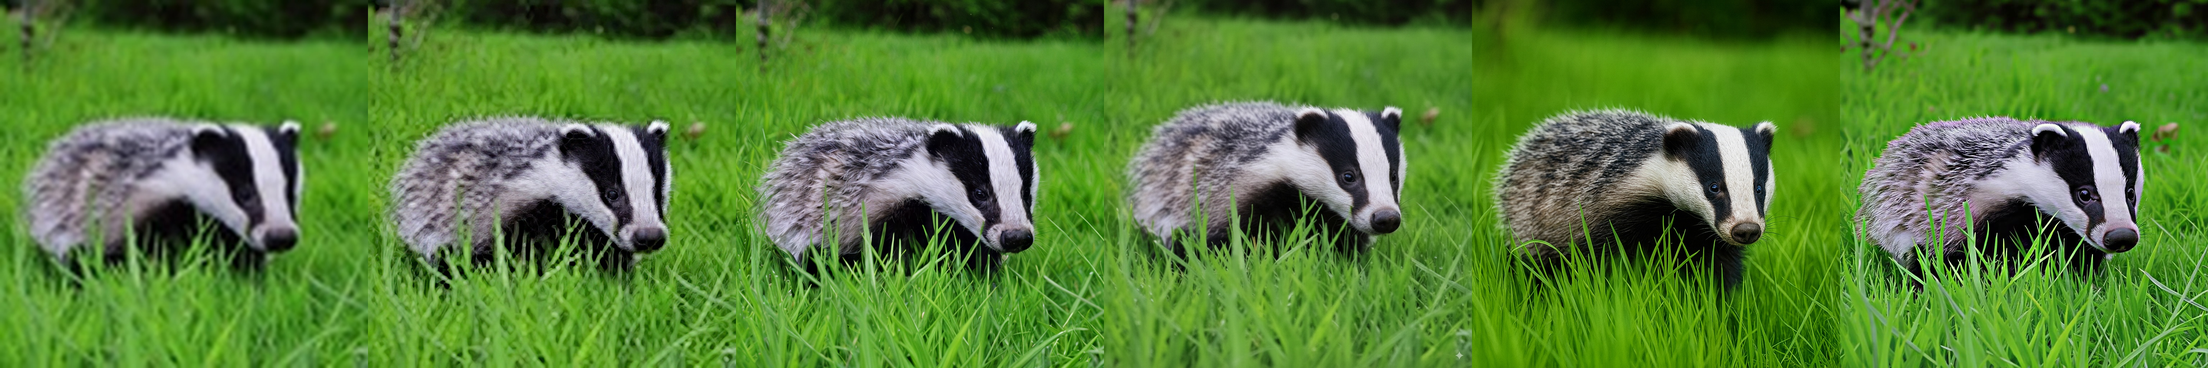
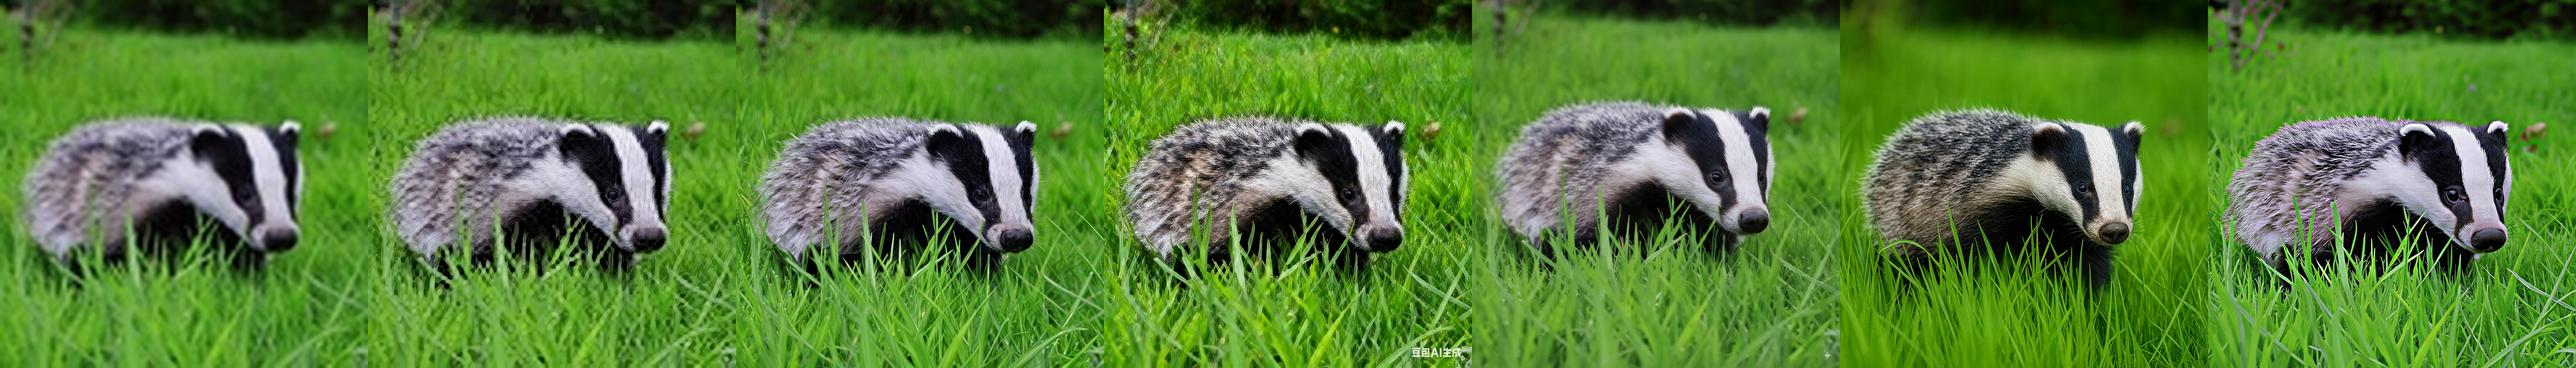
add commercial comparison

diff --git a/LucidFlux/index.html b/LucidFlux/index.html
@@ -1438,7 +1438,7 @@
             <!-- Commercial Model Comparison -->
             <div class="qualitative-results">
                 <h3>Commercial Model Comparison</h3>
-                <p class="comparison-subtitle">Input | HYPIR | Topaz | Gemini-NanoBanana | GPT-4o | LucidFlux (Ours)</p>
+                <p class="comparison-subtitle">Input | HYPIR | Topaz | SeeDream 4.0 | Gemini-NanoBanana | GPT-4o | LucidFlux (Ours)</p>
                 <div class="comparison-grid">
                     <div class="comparison-item">
                         <img src="commercial_comparison/commercial_061.jpg" alt="Commercial Comparison 061" class="comparison-image">
@@ -1499,9 +1499,6 @@
         <!-- Thumbnails will be generated dynamically by JavaScript -->
     </div>
 </div>
-
-    
-    
 
     <script src="script.js"></script>
 </body>
